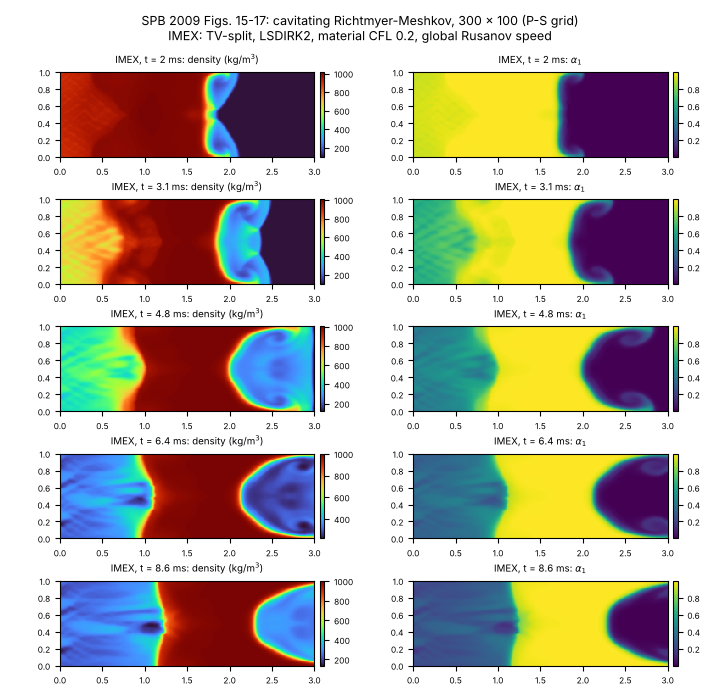
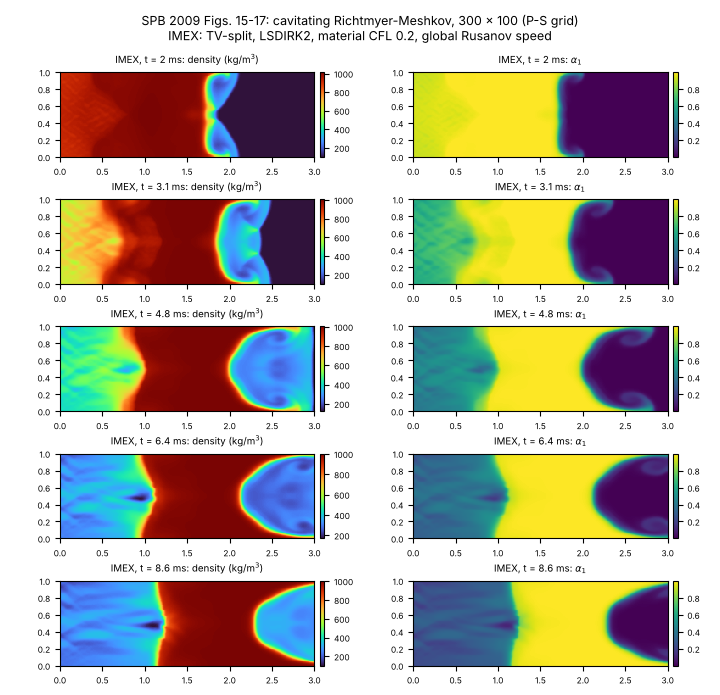
2D figures (He bubble, cavitating RM, bubble compression) from V15 runs
Claude-Session: https://claude.ai/code/session_01S1n65tsz3avypBq5vvRFNT

diff --git a/tests/plot_2d_paper.py b/tests/plot_2d_paper.py
@@ -1,4 +1,4 @@
-"""Figures of the 2D paper tests (IMEX, V14) from tests/run_archive.sh: rows = snapshot times, one column per variable.
+"""Figures of the 2D paper tests (IMEX, V15) from tests/run_archive.sh: rows = snapshot times, one column per variable.
 usage: python3 tests/plot_2d_paper.py RUNDIR OUTDIR [he rm bub undex]"""
 import os, sys, numpy as np, matplotlib
 matplotlib.use('Agg'); import matplotlib.pyplot as plt
